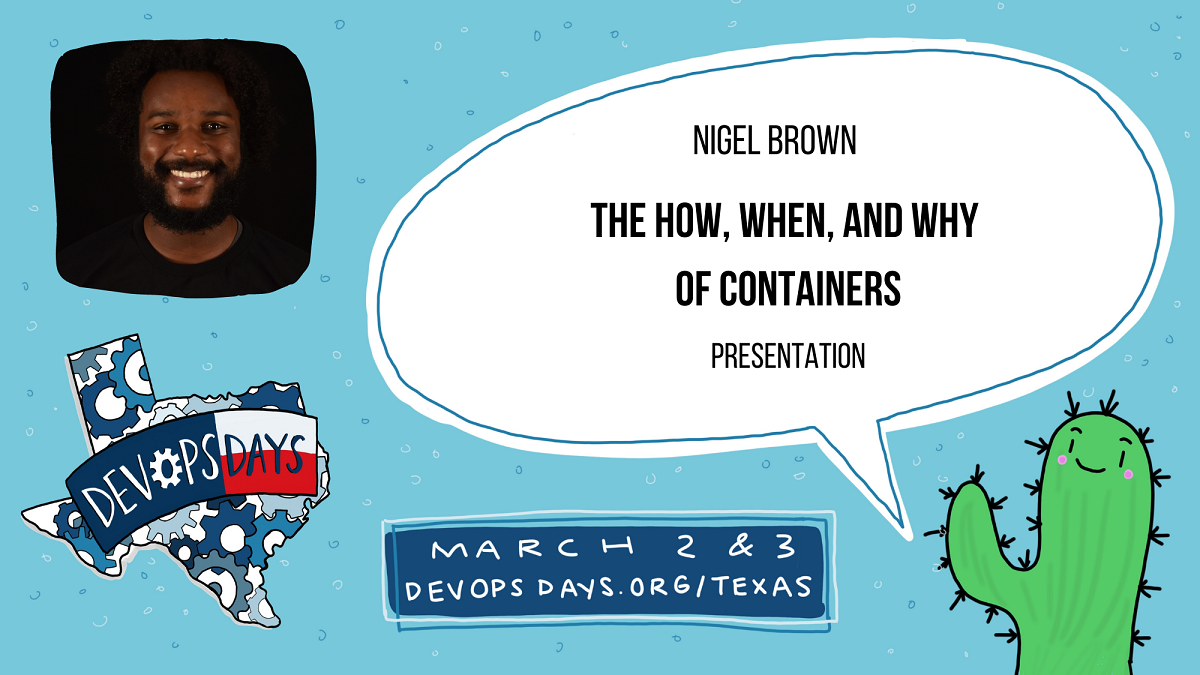
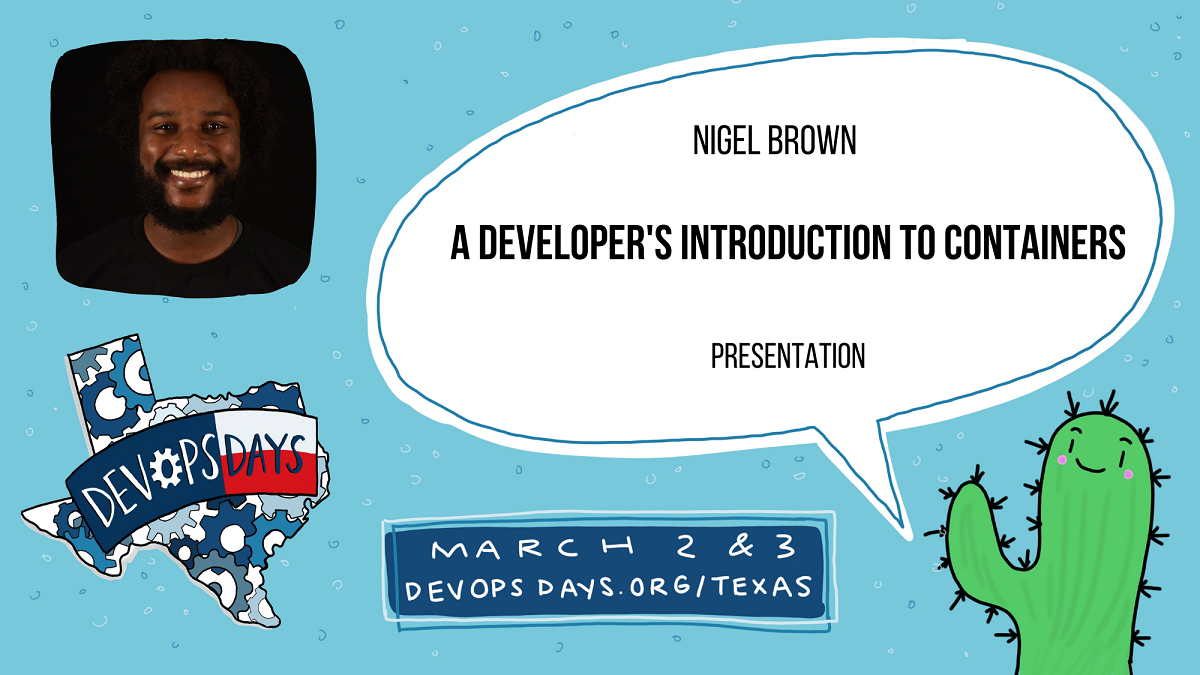
[TX-2021] Changed title of a talk per speaker's request

Changed region(s): [[0.37, 0.28, 0.9558, 0.4667]]

diff --git a/content/events/2021-texas/program/nigel-brown.md b/content/events/2021-texas/program/nigel-brown.md
@@ -2,7 +2,7 @@
 Talk_date = ""
 Talk_start_time = ""
 Talk_end_time = ""
-Title = "The How, When, and Why of Containers"
+Title = "A Developer's Introduction to Containers"
 Type = "talk"
 Speakers = ["nigel-brown"]
 sharing_image = "nigel-brown.png"
